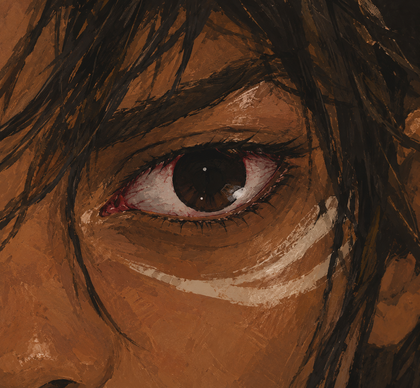
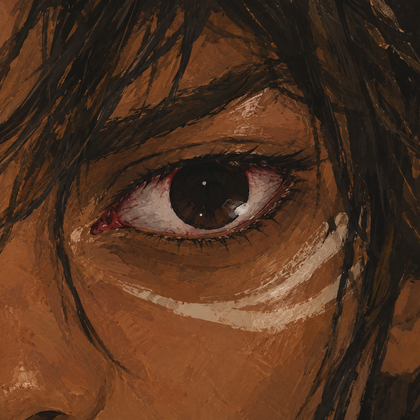
Exame mostra olho e boca de perto, doentes só em quem está doente
- Converte todas as artes de Arte/Doenças (olhos e bocas), cortando a borda
  rasgada, o xadrez e o fundo preto para todo detalhe sair quadrado e cheio.
- Yara: olho vermelho (fumaça) nas noites 1 e 2; depois normal, a menos que
  pegue a febre na oca e mostre. Potira: o mesmo para a febre.
- Mbaé e Tamandaré-mirim: o olho piora depois de 3 noites dormindo na oca
  (estado.noites_na_oca); a boca já chega doente.
- Iandé: normal nas noites 7 e 8, olho e boca doentes na noite 9. Araci: doente.
- Condições novas nas zonas: com_febre/sem_febre, noites_na_oca_ao_menos/menos_de.
- Textos/Caraiba_Sinais_dos_Personagens.md: as diferenças com e sem a maldição.

diff --git a/Jogo/ferramentas/converter_arte.py b/Jogo/ferramentas/converter_arte.py
@@ -309,20 +309,89 @@ def converter_sentado(origem, destino):
     print("  ok  %-22s -> %-36s %4d KB" % (origem.split("/")[-1], destino, tamanho_kb))
 
 
-# DETALHES DO EXAME (Arte/Doenças/): o olho de perto, que aparece no exame da noite em vez de
-# uma descrição. Saem quadrados, em cores (a interface não passa pelo filtro da noite).
+# DETALHES DO EXAME (Arte/Doenças/): o olho e a boca de perto, que aparecem no exame da noite
+# em vez de uma descrição. Saem quadrados, em cores (a interface não passa pelo filtro da noite).
+# Quem mostra cada um e quando: Textos/Caraiba_Sinais_dos_Personagens.md.
 TAMANHO_DETALHE = 420
+DOENCAS = "Doenças/"
 DETALHES = [
-    ("Doenças/Yara/OlhoYara_Doente.png", "detalhes/olho-yara.png"),        # vermelho da fumaça
-    ("Doenças/Mbaé/OlhoMbaé_ate3.png", "detalhes/olho-mbae.png"),          # até o 3º dia na oca
-    # Falta: Doenças/Mbaé/OlhoMbaé_Doente.png (depois de 3 dias na oca) -> detalhes/olho-mbae-doente.png
-    ("Doenças/Potira/OlhoPotira.png", "detalhes/olho-potira.png"),
-    ("Doenças/Tama/OlhoTama.png", "detalhes/olho-tamandare.png"),
-    ("Doenças/Iandé/OlhoIandé.png", "detalhes/olho-iande.png"),
-    ("Doenças/Iandé/OlhoIandé_Doente.png", "detalhes/olho-iande-doente.png"),
-    ("Doenças/Krenan/OlhoKrenan.png", "detalhes/olho-krenan.png"),
-    ("Doenças/Krenan/OlhoKrenan_Doente.png", "detalhes/olho-krenan-doente.png"),
+    # Yara: o olho vermelho da fumaça nas noites 1 e 2 (e se pegar a febre); depois, o normal.
+    (DOENCAS + "Yara/OlhoYara_Doente.png", "detalhes/olho-yara-vermelho.png"),
+    (DOENCAS + "Yara/OlhoYara.png", "detalhes/olho-yara.png"),
+    (DOENCAS + "Yara/BocaYara.png", "detalhes/boca-yara.png"),
+    (DOENCAS + "Yara/BocaYaraDoente.png", "detalhes/boca-yara-doente.png"),
+    # Mbaé: o olho até o 3º dia na oca; depois, o doente. A boca já chega ferida.
+    (DOENCAS + "Mbaé/OlhoMbaé_ate3.png", "detalhes/olho-mbae.png"),
+    (DOENCAS + "Mbaé/OlhoDoenteMbaé.png", "detalhes/olho-mbae-doente.png"),
+    (DOENCAS + "Mbaé/BocaMbaé.png", "detalhes/boca-mbae.png"),
+    (DOENCAS + "Mbaé/BocaMbaéDoente.png", "detalhes/boca-mbae-doente.png"),
+    (DOENCAS + "Potira/OlhoPotira.png", "detalhes/olho-potira.png"),
+    (DOENCAS + "Potira/OlharPotiraDoente.png", "detalhes/olho-potira-doente.png"),
+    (DOENCAS + "Potira/BocaPotira.png", "detalhes/boca-potira.png"),
+    (DOENCAS + "Potira/BocaPotiraDoente.png", "detalhes/boca-potira-doente.png"),
+    (DOENCAS + "Tama/OlhoTama.png", "detalhes/olho-tamandare.png"),
+    (DOENCAS + "Tama/OlhoTamaDoente.png", "detalhes/olho-tamandare-doente.png"),
+    (DOENCAS + "Tama/BocaTama.png", "detalhes/boca-tamandare.png"),
+    (DOENCAS + "Tama/BocaTamaDoente.png", "detalhes/boca-tamandare-doente.png"),
+    (DOENCAS + "Iandé/OlhoIandé.png", "detalhes/olho-iande.png"),
+    (DOENCAS + "Iandé/OlhoIandé_Doente.png", "detalhes/olho-iande-doente.png"),
+    (DOENCAS + "Iandé/BocaIandé.png", "detalhes/boca-iande.png"),
+    (DOENCAS + "Iandé/BocaIandéDoente.png", "detalhes/boca-iande-doente.png"),
+    (DOENCAS + "Krenan/OlhoKrenan.png", "detalhes/olho-krenan.png"),
+    (DOENCAS + "Krenan/OlhoKrenan_Doente.png", "detalhes/olho-krenan-doente.png"),
+    (DOENCAS + "Araci/OlhoDoenteAraci.png", "detalhes/olho-araci-doente.png"),
+    (DOENCAS + "Araci/BocaAraci.png", "detalhes/boca-araci.png"),
+    (DOENCAS + "Araci/BocaAraciDoente.png", "detalhes/boca-araci-doente.png"),
 ]
+# Detalhes com o fundo xadrez desenhado na imagem (sem transparência de verdade).
+DETALHES_XADREZ = [DOENCAS + "Mbaé/OlhoDoenteMbaé.png", DOENCAS + "Tama/OlhoTamaDoente.png",
+                   DOENCAS + "Tama/BocaTama.png", DOENCAS + "Tama/BocaTamaDoente.png"]
+# Detalhes com a borda rasgada sobre um fundo preto pintado na imagem (sem transparência).
+DETALHES_FUNDO_PRETO = [DOENCAS + "Potira/OlhoPotira.png", DOENCAS + "Tama/OlhoTama.png"]
+LIMIAR_FUNDO_PRETO = 4   # canal mais claro abaixo disto, ligado à borda, é o fundo preto
+OPACO = 250   # alfa a partir do qual o pixel conta como pintura (e não como borda rasgada)
+
+
+def tirar_fundo_preto(imagem):
+    """Deixa transparente o preto que encosta na borda da imagem (o fundo)."""
+    r, g, b, _ = imagem.split()
+    mais_claro = ImageChops.lighter(ImageChops.lighter(r, g), b)
+    escuro = mais_claro.point(lambda v: 255 if v < LIMIAR_FUNDO_PRETO else 0)
+    largura, altura = escuro.size
+    for ponto in [(0, 0), (largura - 1, 0), (0, altura - 1), (largura - 1, altura - 1)]:
+        if escuro.getpixel(ponto) == 255:
+            ImageDraw.floodfill(escuro, ponto, 128)
+    imagem.putalpha(escuro.point(lambda v: 0 if v == 128 else 255))
+    return imagem
+
+
+def recorte_opaco(imagem):
+    """O maior quadrado no meio da pintura sem nenhum pixel transparente.
+
+    As artes novas vêm com a borda rasgada (e transparente) em volta: o quadrado corta a
+    borda, para todo detalhe sair cheio, como os olhos de antes.
+    """
+    alfa = imagem.getchannel("A").point(lambda v: 255 if v >= OPACO else 0)
+    esquerda, topo, direita, baixo = alfa.getbbox()
+    # Fecha o retângulo, um lado de cada vez, até nenhuma borda dele tocar o transparente.
+    while esquerda < direita and topo < baixo:
+        lados = {
+            "esquerda": alfa.crop((esquerda, topo, esquerda + 1, baixo)),
+            "direita": alfa.crop((direita - 1, topo, direita, baixo)),
+            "topo": alfa.crop((esquerda, topo, direita, topo + 1)),
+            "baixo": alfa.crop((esquerda, baixo - 1, direita, baixo)),
+        }
+        furados = [lado for lado, linha in lados.items() if linha.getextrema()[0] < 255]
+        if not furados:
+            break
+        esquerda += "esquerda" in furados
+        direita -= "direita" in furados
+        topo += "topo" in furados
+        baixo -= "baixo" in furados
+    lado = min(direita - esquerda, baixo - topo)
+    x = (esquerda + direita - lado) // 2
+    y = (topo + baixo - lado) // 2
+    return imagem.crop((x, y, x + lado, y + lado))
 
 
 def converter_detalhe(origem, destino):
@@ -333,8 +402,13 @@ def converter_detalhe(origem, destino):
         return
     os.makedirs(os.path.dirname(caminho_destino), exist_ok=True)
     imagem = Image.open(caminho_origem).convert("RGBA")
-    imagem = imagem.resize((TAMANHO_DETALHE, round(imagem.height * TAMANHO_DETALHE / imagem.width)),
-                           Image.LANCZOS)
+    if origem in DETALHES_XADREZ:
+        imagem = tirar_fundo_branco(imagem, limiar_cercado=LIMIAR_BRANCO_CERCADO_XADREZ,
+                                    area_cercado=AREA_MINIMA_BRANCO_CERCADO_XADREZ)
+    elif origem in DETALHES_FUNDO_PRETO:
+        imagem = tirar_fundo_preto(imagem)
+    imagem = recorte_opaco(imagem).convert("RGB")
+    imagem = imagem.resize((TAMANHO_DETALHE, TAMANHO_DETALHE), Image.LANCZOS)
     imagem.save(caminho_destino, optimize=True)
     tamanho_kb = os.path.getsize(caminho_destino) // 1024
     print("  ok  %-22s -> %-36s %4d KB" % (origem.split("/")[-1], destino, tamanho_kb))

diff --git a/Jogo/testes/teste_fluxo.py b/Jogo/testes/teste_fluxo.py
@@ -94,7 +94,7 @@ def testar_estado_inicial():
     esperado = {"dia": 1, "vivos": 0, "mortos": 0, "mortos_por_sua_mao": 0, "entregues": 0,
                 "proximidade_vila": 0, "rio_acima": 0, "memoria": 0, "recusas_aleixo": 0, "levados": 0,
                 "pistas": 0, "sanidade": 10, "tapiri_usos": 0, "viu_anhanga": 0, "seguiu_paje": 0,
-                "inocentes": 0, "machado": 0, "energia_hoje": 0, "krenan_volta": 0, "subiu_o_rio": 0, "rio_acima_nomes": [], "convidados": [], "dentro": [], "tapiri": [], "tapiri_desde": {}, "febre": [], "manha": [],
+                "inocentes": 0, "machado": 0, "energia_hoje": 0, "krenan_volta": 0, "subiu_o_rio": 0, "rio_acima_nomes": [], "convidados": [], "dentro": [], "tapiri": [], "tapiri_desde": {}, "febre": [], "noites_na_oca": {}, "manha": [],
                 "historias": [], "entregues_nomes": [],
                 "mortos_nomes": [], "mortos_quando": {}, "tabua": [], "tabua_noites": [],
                 "final_calculado": None, "final": None}
@@ -102,6 +102,39 @@ def testar_estado_inicial():
     assert isinstance(dados.pop("semente"), int), "cada partida tem a sua sorte"
     assert dados == esperado, dados
     print("ok Estado com os valores iniciais do documento")
+
+
+def testar_sinais_no_rosto():
+    """O olho e a boca de perto mudam com a doença (Textos/Caraiba_Sinais_dos_Personagens.md)."""
+    from types import SimpleNamespace
+    from cenas.dia import Dia
+    from dados import noites
+
+    def imagens(zonas, estado):
+        dia = SimpleNamespace(estado=estado)
+        return {zona["pergunta"]: zona.get("imagem") for zona in zonas if Dia._condicao(dia, zona)}
+
+    estado = Estado()
+    estado.dia = 3
+    estado.dentro = ["Yara", "Mbaé"]
+    # Yara: vermelho da fumaça nas noites 1 e 2; na 3, sã, o olho volta ao normal.
+    assert imagens(noites.ZONAS_YARA, estado)["Olhos"] == "olho_yara_vermelho"
+    assert imagens(noites.ZONAS_YARA_NOITE_3, estado) == {
+        "Testa": None, "Olhos": "olho_yara", "Orelhas": None, "Boca": "boca_yara",
+        "Mãos": None, "Respiração": None}
+    # Pegou a febre de Mbaé na noite 2 e mostra: o olho segue vermelho, a boca ferida.
+    estado.febre = [{"nome": "Yara", "de": "Mbaé", "noite": 2, "visivel": True}]
+    vistas = imagens(noites.ZONAS_YARA_NOITE_3, estado)
+    assert vistas["Olhos"] == "olho_yara_vermelho" and vistas["Boca"] == "boca_yara_doente", vistas
+    # Pegou sem mostrar: o rosto de sempre.
+    estado.febre[0]["visivel"] = False
+    assert imagens(noites.ZONAS_YARA_NOITE_3, estado)["Olhos"] == "olho_yara"
+    # Mbaé: o olho piora depois de 3 noites dormindo na oca; a boca já chega ferida.
+    vistas = imagens(noites.ZONAS_MBAE, estado)
+    assert vistas["Olhos"] == "olho_mbae" and vistas["Boca"] == "boca_mbae_doente", vistas
+    estado.noites_na_oca = {"Mbaé": 3}
+    assert imagens(noites.ZONAS_MBAE, estado)["Olhos"] == "olho_mbae_doente"
+    print("ok sinais no rosto: olho e boca mudam com a doença")
 
 
 def testar_febre():
@@ -1889,6 +1922,7 @@ if __name__ == "__main__":
     testar_estado_inicial()
     testar_finais()
     testar_febre()
+    testar_sinais_no_rosto()
     testar_cartoes_introducao()
     testar_fluxo()
     testar_desempenho()

diff --git a/Jogo/dados/arte.py b/Jogo/dados/arte.py
@@ -53,16 +53,34 @@ EM_PE = {
     "Araci": "araci",
 }
 
-# Detalhes do exame (Arte/Doenças/): o olho de perto, em cores, à direita da tela.
+# Detalhes do exame (Arte/Doenças/): o olho e a boca de perto, em cores.
+# Quem mostra cada um e quando: Textos/Caraiba_Sinais_dos_Personagens.md.
 DETALHES = {
-    "olho_yara": "detalhes/olho-yara.png",          # vermelho da fumaça (noites 1 e 2)
-    "olho_mbae": "detalhes/olho-mbae.png",          # até o 3º dia na oca
+    "olho_yara": "detalhes/olho-yara.png",                    # da noite 3 em diante, sem febre
+    "olho_yara_vermelho": "detalhes/olho-yara-vermelho.png",  # fumaça (noites 1 e 2) ou febre
+    "boca_yara": "detalhes/boca-yara.png",
+    "boca_yara_doente": "detalhes/boca-yara-doente.png",
+    "olho_mbae": "detalhes/olho-mbae.png",                    # até 3 noites na oca
+    "olho_mbae_doente": "detalhes/olho-mbae-doente.png",      # depois de 3 noites na oca
+    "boca_mbae": "detalhes/boca-mbae.png",                    # (sem uso: Mbaé já chega doente)
+    "boca_mbae_doente": "detalhes/boca-mbae-doente.png",
     "olho_potira": "detalhes/olho-potira.png",
-    "olho_tamandare": "detalhes/olho-tamandare.png",
-    "olho_iande": "detalhes/olho-iande.png",
-    "olho_iande_doente": "detalhes/olho-iande-doente.png",
-    "olho_krenan": "detalhes/olho-krenan.png",
+    "olho_potira_doente": "detalhes/olho-potira-doente.png",
+    "boca_potira": "detalhes/boca-potira.png",
+    "boca_potira_doente": "detalhes/boca-potira-doente.png",
+    "olho_tamandare": "detalhes/olho-tamandare.png",          # até 3 noites na oca
+    "olho_tamandare_doente": "detalhes/olho-tamandare-doente.png",
+    "boca_tamandare": "detalhes/boca-tamandare.png",          # (sem uso: já chega doente)
+    "boca_tamandare_doente": "detalhes/boca-tamandare-doente.png",
+    "olho_iande": "detalhes/olho-iande.png",                  # noites 7 e 8
+    "olho_iande_doente": "detalhes/olho-iande-doente.png",    # noite 9
+    "boca_iande": "detalhes/boca-iande.png",
+    "boca_iande_doente": "detalhes/boca-iande-doente.png",
+    "olho_krenan": "detalhes/olho-krenan.png",                # (sem uso: Krenan não é examinado)
     "olho_krenan_doente": "detalhes/olho-krenan-doente.png",
+    "olho_araci_doente": "detalhes/olho-araci-doente.png",
+    "boca_araci": "detalhes/boca-araci.png",                  # (sem uso: Araci já chega doente)
+    "boca_araci_doente": "detalhes/boca-araci-doente.png",
 }
 
 # Onde fica o fogo em cada cenário (x, y na tela 1600x900).

diff --git a/Jogo/cenas/dia.py b/Jogo/cenas/dia.py
@@ -219,7 +219,10 @@ class Dia(Cena):
         na aldeia (motor/febre.py, quantos_amaldicoados); "levou_alguem": True (o Irmão Aleixo já
         levou alguém); "entregue": "Yara" (o Irmão Aleixo levou essa pessoa, entregue ou não);
         "ao_menos": {"krenan_volta": 1} (variáveis do estado.py com pelo menos esse valor);
-        "no_maximo": {"recusas_aleixo": 1} (variáveis do estado.py com no máximo esse valor).
+        "no_maximo": {"recusas_aleixo": 1} (variáveis do estado.py com no máximo esse valor);
+        "com_febre" e "sem_febre" levam o nome de quem pegou a febre na oca e mostra
+        (motor/febre.py, mostra_febre); "noites_na_oca_ao_menos": {"Mbaé": 3} e
+        "noites_na_oca_menos_de": {"Mbaé": 3} contam as noites que a pessoa dormiu na oca.
         """
         estado = self.estado
         if "morto_ontem" in item and estado.mortos_quando.get(item["morto_ontem"]) != estado.dia - 1:
@@ -230,6 +233,16 @@ class Dia(Cena):
             return False
         if "sao" in item and febre.amaldicoado(estado, item["sao"]):
             return False
+        if "com_febre" in item and not febre.mostra_febre(estado, item["com_febre"]):
+            return False
+        if "sem_febre" in item and febre.mostra_febre(estado, item["sem_febre"]):
+            return False
+        for nome, minimo in item.get("noites_na_oca_ao_menos", {}).items():
+            if estado.noites_na_oca.get(nome, 0) < minimo:
+                return False
+        for nome, minimo in item.get("noites_na_oca_menos_de", {}).items():
+            if estado.noites_na_oca.get(nome, 0) >= minimo:
+                return False
         if item.get("levou_alguem") and not estado.entregues_nomes:
             return False
         if "entregue" in item and item["entregue"] not in estado.entregues_nomes:
@@ -350,6 +363,10 @@ class Dia(Cena):
         # quem pegou numa noite anterior (nas noites com amaldiçoados), depois os doentes de fora.
         if self.noite.get("amaldicoados"):
             febre.passar_na_oca(self.estado)
+        # Quem é de fora e não está no tapiri dormiu na oca (o olho de Mbaé piora com as noites).
+        for nome in self.estado.dentro:
+            if nome not in self.estado.tapiri:
+                self.estado.noites_na_oca[nome] = self.estado.noites_na_oca.get(nome, 0) + 1
         for nome in list(self.estado.dentro):
             febre.pegar(self.estado, nome)
         self.fila[0:0] = self.noite.get("fim", [])

diff --git a/Jogo/motor/febre.py b/Jogo/motor/febre.py
@@ -12,6 +12,8 @@
 # - amanhecer(estado): passa para o dia seguinte. Quem pegou a febre acorda doente no 1º dia
 #   e morre no 2º; as frases da manhã (com o nome) ficam em estado.manha, para o Dia mostrar.
 # - amaldicoado(estado, nome): o doente de fora que ainda passa a febre.
+# - mostra_febre(estado, nome): quem pegou a febre numa noite anterior e mostra (o exame vê o
+#   olho e a boca doentes).
 # - quantos_amaldicoados(estado): os doentes de fora na aldeia mais quem pegou deles.
 #
 # Cada entrada de estado.febre é uma pessoa de fora:
@@ -71,6 +73,12 @@ def quantos_amaldicoados(estado):
 def amaldicoado(estado, nome):
     """O doente de fora ainda passa a febre: está na aldeia (não morreu nem foi levado)."""
     return nome in CONTAGIO and nome in estado.dentro
+
+
+def mostra_febre(estado, nome):
+    """Pegou a febre na oca numa noite anterior e mostra: está doente à vista."""
+    return any(entrada.get("nome") == nome and entrada.get("visivel", True) and entrada["noite"] < estado.dia
+               for entrada in estado.febre)
 
 
 def _frase(chave, nomes):

diff --git a/Jogo/estado.py b/Jogo/estado.py
@@ -40,6 +40,8 @@ class Estado:
         self.tapiri_desde = {}
         # A febre que passou na oca: quem pegou, de quem e em que noite (motor/febre.py)
         self.febre = []
+        # Quantas noites cada um de fora dormiu na oca (o olho dos amaldiçoados piora com elas)
+        self.noites_na_oca = {}
         # As histórias já ouvidas (dados/conversas.py): a memória sobe uma vez por história
         self.historias = []
         # Quem o jogador chamou para a fogueira sem deixar entrar na aldeia (ex.: Krenan)

diff --git a/Textos/Caraiba_Sinais_dos_Personagens.md b/Textos/Caraiba_Sinais_dos_Personagens.md
@@ -1,0 +1,66 @@
+# Caraíba — Os sinais de cada personagem (com e sem a maldição)
+
+Este arquivo diz **o que o jogador vê de perto no exame da noite** (o olho e a boca) para cada
+pessoa, com a maldição e sem ela, e **quando** a imagem muda.
+
+- Artes originais: `Arte/Doenças/<pessoa>/`. Cópias do jogo: `Jogo/assets/detalhes/`
+  (feitas por `Jogo/ferramentas/converter_arte.py`).
+- Onde isso está no jogo: `Jogo/dados/noites.py` (as zonas do exame de cada noite) e
+  `Jogo/dados/arte.py` (lista `DETALHES`).
+- Só os **olhos** e a **boca** têm imagem. Orelhas, pescoço, testa, mãos e respiração
+  continuam descritos em texto.
+
+## As regras
+
+1. **Quem chega amaldiçoado** (Mbaé, Tamandaré-mirim, Iandé, Araci) traz a maldição desde o
+   primeiro dia. Mas nem todo sinal aparece logo: alguns pioram com as noites.
+2. **Quem chega são** (Yara, Potira) tem o rosto normal. Só fica doente se **pegar a febre na
+   oca**, dormindo perto de um amaldiçoado.
+3. Quem pega a febre e **mostra** acorda com febre no dia seguinte e, nessa noite, o exame já
+   mostra o **olho e a boca doentes**. Morre na manhã depois.
+4. Quem pega a febre e **não mostra** (metade das vezes, `CHANCE_DE_MOSTRAR` em
+   `dados/febre.py`) segue com o rosto **normal** até morrer. O jogador não tem como ver.
+5. **"Noites na oca"**: conta só as noites em que a pessoa dormiu na oca (não no tapiri). É com
+   elas que o olho de Mbaé e o de Tamandaré-mirim pioram: depois de **3 noites**
+   (`NOITES_ATE_O_OLHO_PIORAR` em `dados/noites.py`).
+
+## Pessoa por pessoa
+
+| Pessoa | Chega | Maldição? | Olho | Boca |
+|---|---|---|---|---|
+| **Yara** | Dia 1 | Não (pode pegar na oca) | Noites 1 e 2: **vermelho** (fumaça, não é doença). Da noite 3 em diante: **normal**. Se pegou a febre e mostra: **vermelho** de novo | **Normal**. Se pegou a febre e mostra: **doente** |
+| **Mbaé** | Dia 2 | **Sim** (desde o início) | Até 3 noites na oca: o olho de **até o 3º dia**. Depois: **doente** | **Doente** desde o início (as feridas: sinal da noite 2) |
+| **Potira** | Dia 4 | Não (pode pegar na oca) | **Normal** (cansado de sono). Se pegou a febre e mostra: **doente** | **Normal** (lábios secos do frio). Se pegou a febre e mostra: **doente** |
+| **Tamandaré-mirim** | Dia 5 | **Sim** (desde o início) | Até 3 noites na oca: **levemente vermelho** (já é sinal). Depois: **doente** | **Doente** desde o início (os pontos brancos: sinal da noite 5) |
+| **Iandé** | Dia 7 | **Sim**, mas escondida | Noites 7 e 8: **normal** (parece perfeita). Noite 9: **doente** | Noites 7 e 8: **normal**. Noite 9: **doente** |
+| **Araci** | Dia 10 | **Sim**, tudo à vista | **Doente** | **Doente** |
+| **Krenan** | Noite 8 | — | Não é examinado | Não é examinado |
+
+### As imagens de cada um
+
+| Pessoa | Sem a maldição (são) | Com a maldição (doente) |
+|---|---|---|
+| Yara | `OlhoYara.png`, `BocaYara.png` | `OlhoYara_Doente.png` (também o da fumaça), `BocaYaraDoente.png` |
+| Mbaé | `OlhoMbaé_ate3.png` (até 3 noites na oca) | `OlhoDoenteMbaé.png`, `BocaMbaéDoente.png` |
+| Potira | `OlhoPotira.png`, `BocaPotira.png` | `OlharPotiraDoente.png`, `BocaPotiraDoente.png` |
+| Tamandaré-mirim | `OlhoTama.png` (até 3 noites na oca; já levemente vermelho) | `OlhoTamaDoente.png`, `BocaTamaDoente.png` |
+| Iandé | `OlhoIandé.png`, `BocaIandé.png` (noites 7 e 8) | `OlhoIandé_Doente.png`, `BocaIandéDoente.png` (noite 9) |
+| Araci | — | `OlhoDoenteAraci.png`, `BocaAraciDoente.png` |
+
+**Convertidas, mas sem uso no jogo** (a pessoa já chega doente, ou não é examinada):
+`BocaMbaé.png`, `BocaTama.png`, `BocaAraci.png`, `OlhoKrenan.png`, `OlhoKrenan_Doente.png`,
+`OlhoMbaé.png` (igual ao `OlhoMbaé_ate3.png`).
+
+## O que a pessoa diz quando o jogador olha
+
+Com a imagem na tela, o texto fica só com o que a pessoa diz (em âmbar, o que ela afirma e o
+jogador não tem como conferir).
+
+| Pessoa | Olho (são) | Olho (doente) | Boca (são) | Boca (doente) |
+|---|---|---|---|---|
+| Yara | "Dormi perto do fogo." / "Viu? Era a fumaça." | "(treme) É frio, só isso." | "Pode olhar. Não tenho nada." | "(tosse) Dói para engolir." |
+| Mbaé | "(tosse) É o vento do rio." | "(tosse) É o vento do rio. De noite arde mais." | — | "(tosse) Mordi a língua comendo peixe." |
+| Potira | "É sono. Andei desde antes do sol." | "(treme) Dormi mal, só isso." | "Os lábios? Estão secos. / É do frio…" | "(tosse) Arde por dentro." |
+| Tamandaré-mirim | "É o sol da estrada." | "É o sol da estrada. Agora arde." | — | "Rouco de pregar. Só isso." |
+| Iandé | "Dormi bem na vila." | "Não dormi. É a dor nas costas." | "Pode olhar. Está tudo bem." | "(tosse) Comi farinha velha na vila." |
+| Araci | — | "Não durmo. A criança não deixa." | — | "É sede. Andei o dia inteiro." |
